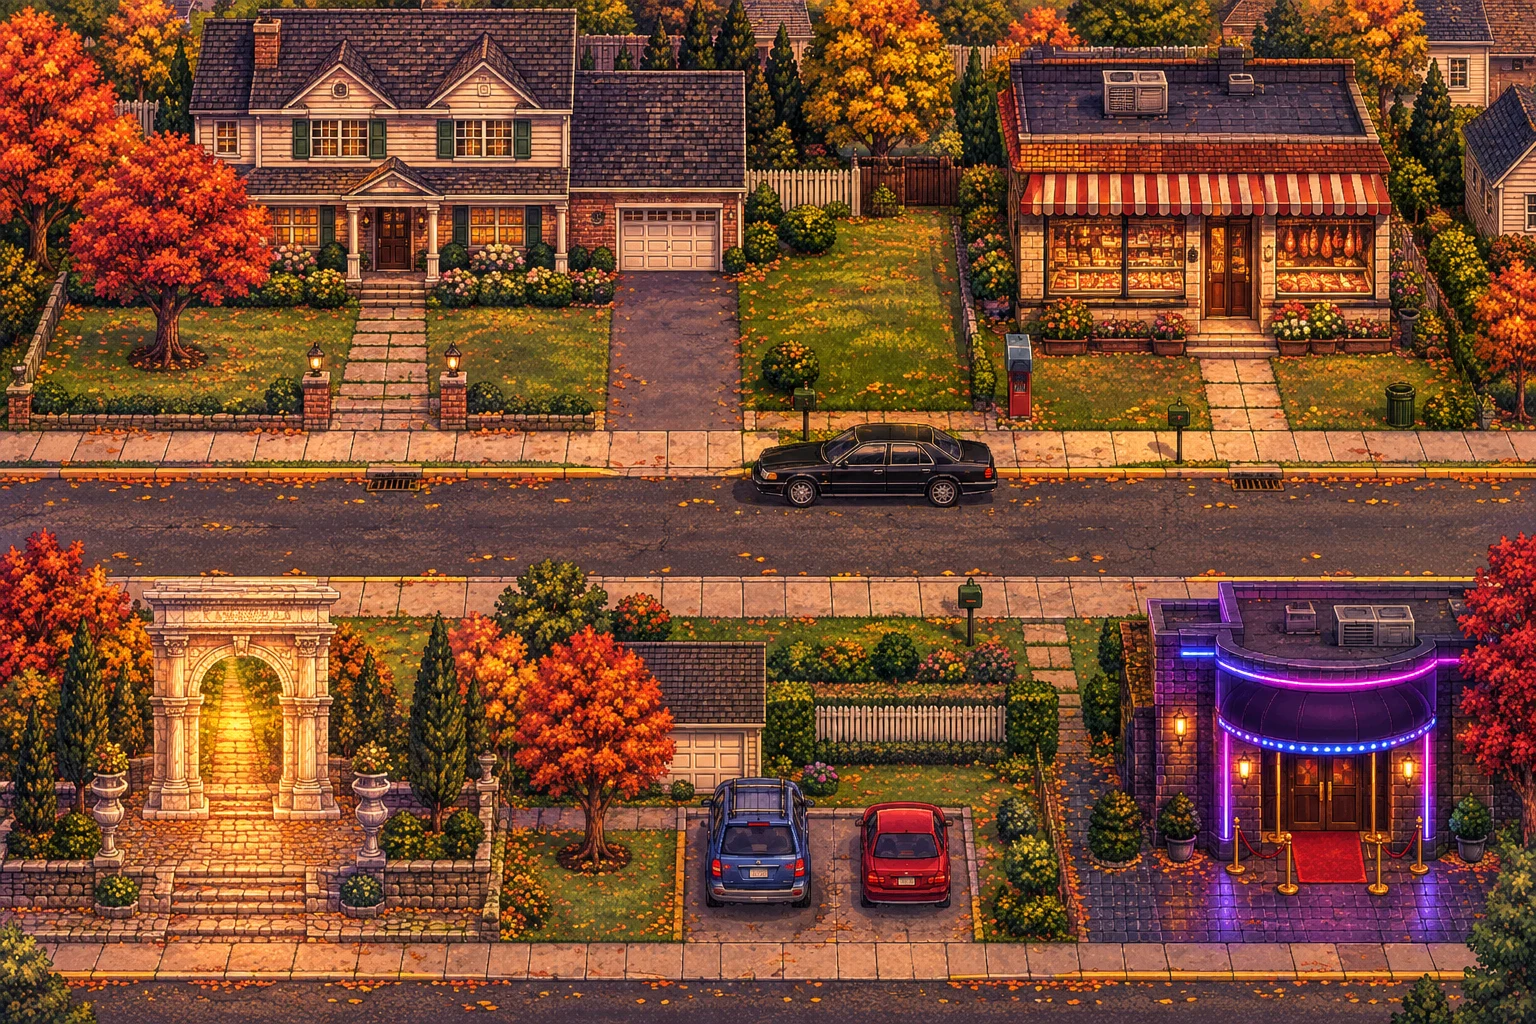
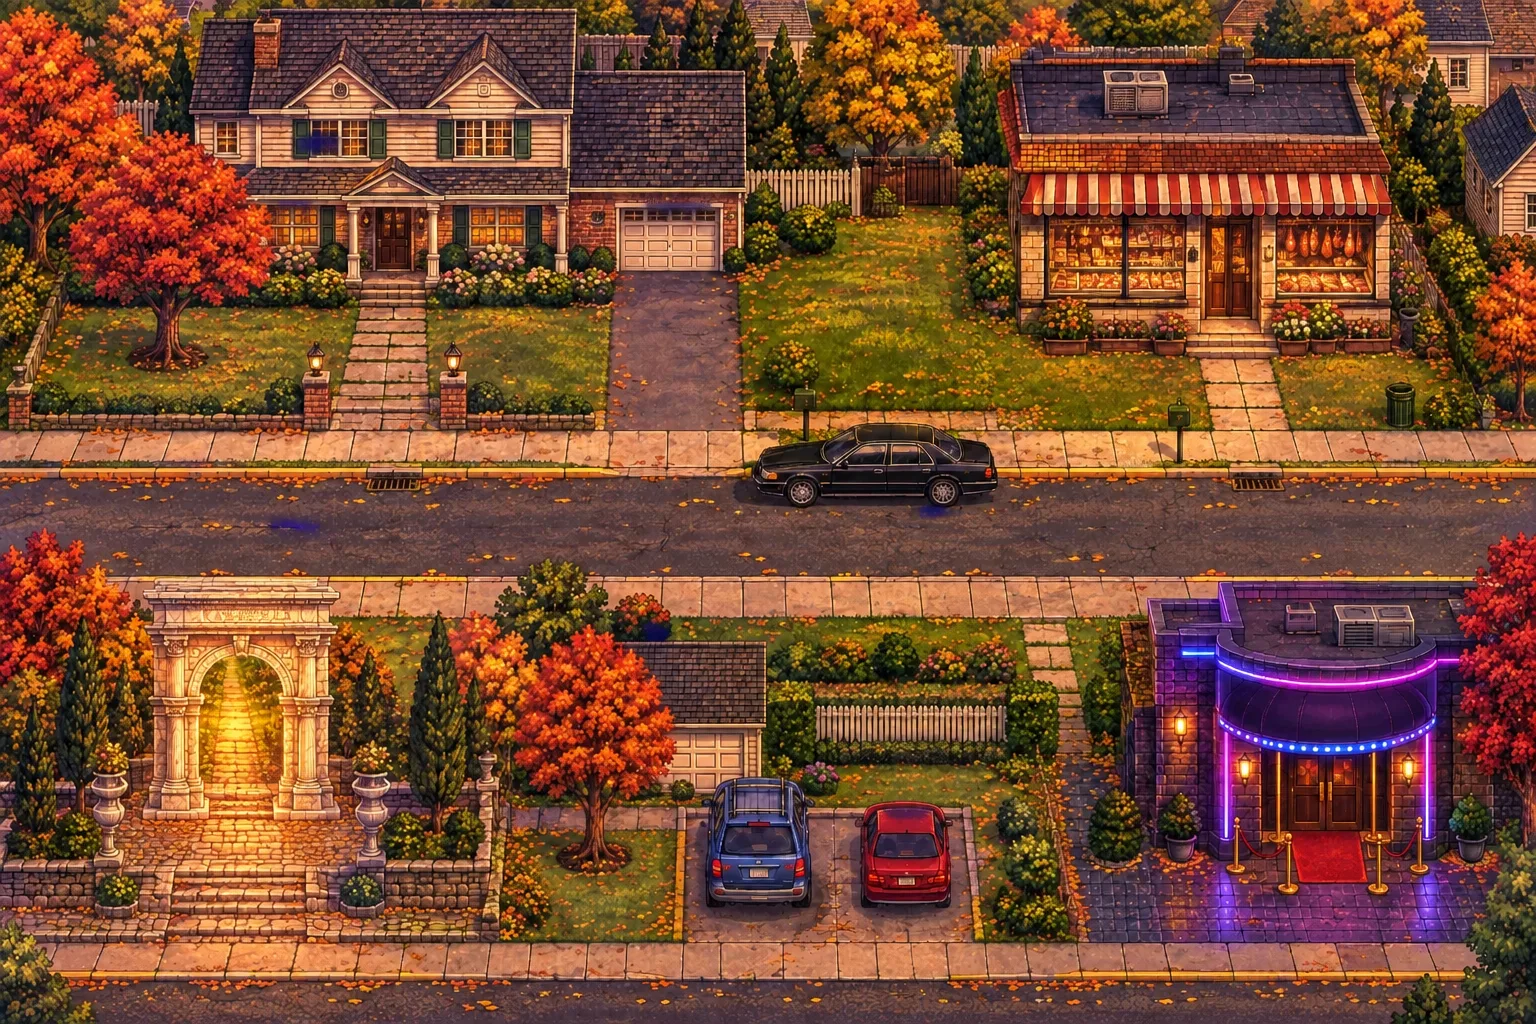
Fix soup-stand spawn inside collider; clean hub art blobs

diff --git a/js/game.js b/js/game.js
@@ -1778,7 +1778,7 @@ function soupInteractions() {
       ] : [
         { speaker: 'tony', text: 'Nice bread. At my house, Carmela hides the good bread from me. Don’t ask.' }
       ]) },
-    { x: 300, y: 370, w: 100, h: 44, radius: 42, label: 'Leave', action: () => travelHub('hub') }
+    { x: 220, y: 362, w: 90, h: 44, radius: 42, label: 'Leave', action: () => travelHub('hub') }
   ];
 }
 
@@ -1961,7 +1961,7 @@ function travelHub(place) {
     apartment: ['apartment', 498, 150, 'The purple door is somehow still unlocked.'],
     vesuvio: ['vesuvio', 320, 360, 'Vesuvio smells like garlic, woodsmoke, and Artie’s bad judgment.'],
     monks: ['monks', 590, 370, 'Monk’s Café. Coffee, big salads, and petty grievances.'],
-    soup: ['soup', 320, 380, 'The soup stand. The rules are the rules.'],
+    soup: ['soup', 250, 380, 'The soup stand. The rules are the rules.'],
     hub: ['hub', 320, 240, 'Back out in the neighborhood.']
   };
   const d = destinations[place];
